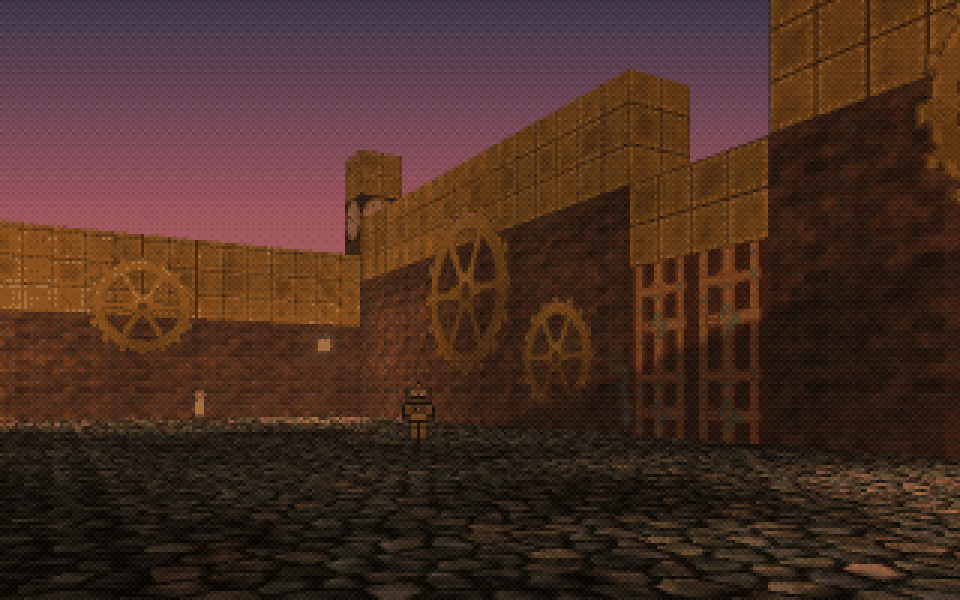
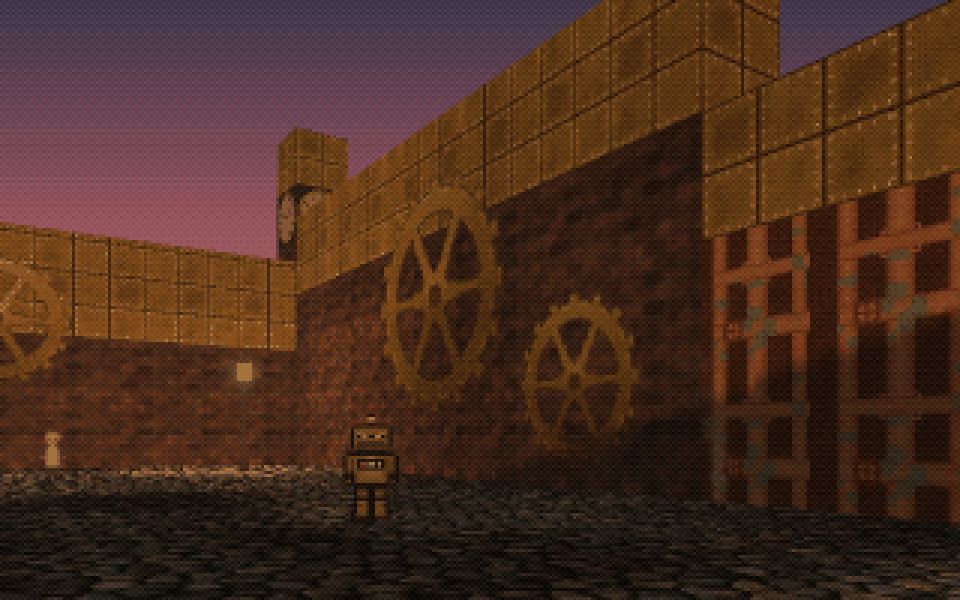
Bring the brass automaton forward in the clockwork gears shot
clock_gears now stands nearer the automaton, so it reads as a figure in
front of the gears in the wall and the copper pipes; before, it was a
dark speck in the middle of the plaza.

diff --git a/examples/clockwork_city.py b/examples/clockwork_city.py
@@ -100,7 +100,7 @@ s = scene(
          'overlays': [{'type': 'caption', 'text': 'The clockwork city', 'at': 'top', 'box': True}]},
         {'x': 22.2, 'y': 26.6, 'height': 0.6, 'look_at': [18.0, 21.5, 1.8], 'fov': 62,
          'post': [{'fx': 'dof', 'focus': 'orrery', 'blur': 1.6}, GLOW]},
-        {'x': 21.0, 'y': 27.8, 'height': 0.5, 'look_at': [26.94, 17.5, 2.0], 'fov': 66, 'post': [GLOW]},
+        {'x': 22.4, 'y': 24.8, 'height': 0.5, 'look_at': [26.94, 18.0, 2.0], 'fov': 66, 'post': [GLOW]},
         {'x': 11.0, 'y': 26.0, 'height': 0.5, 'look_at': [16.7, 17.8, 3.2], 'fov': 68, 'post': [GLOW]},
     ],
     contact_shadows=0.45,
